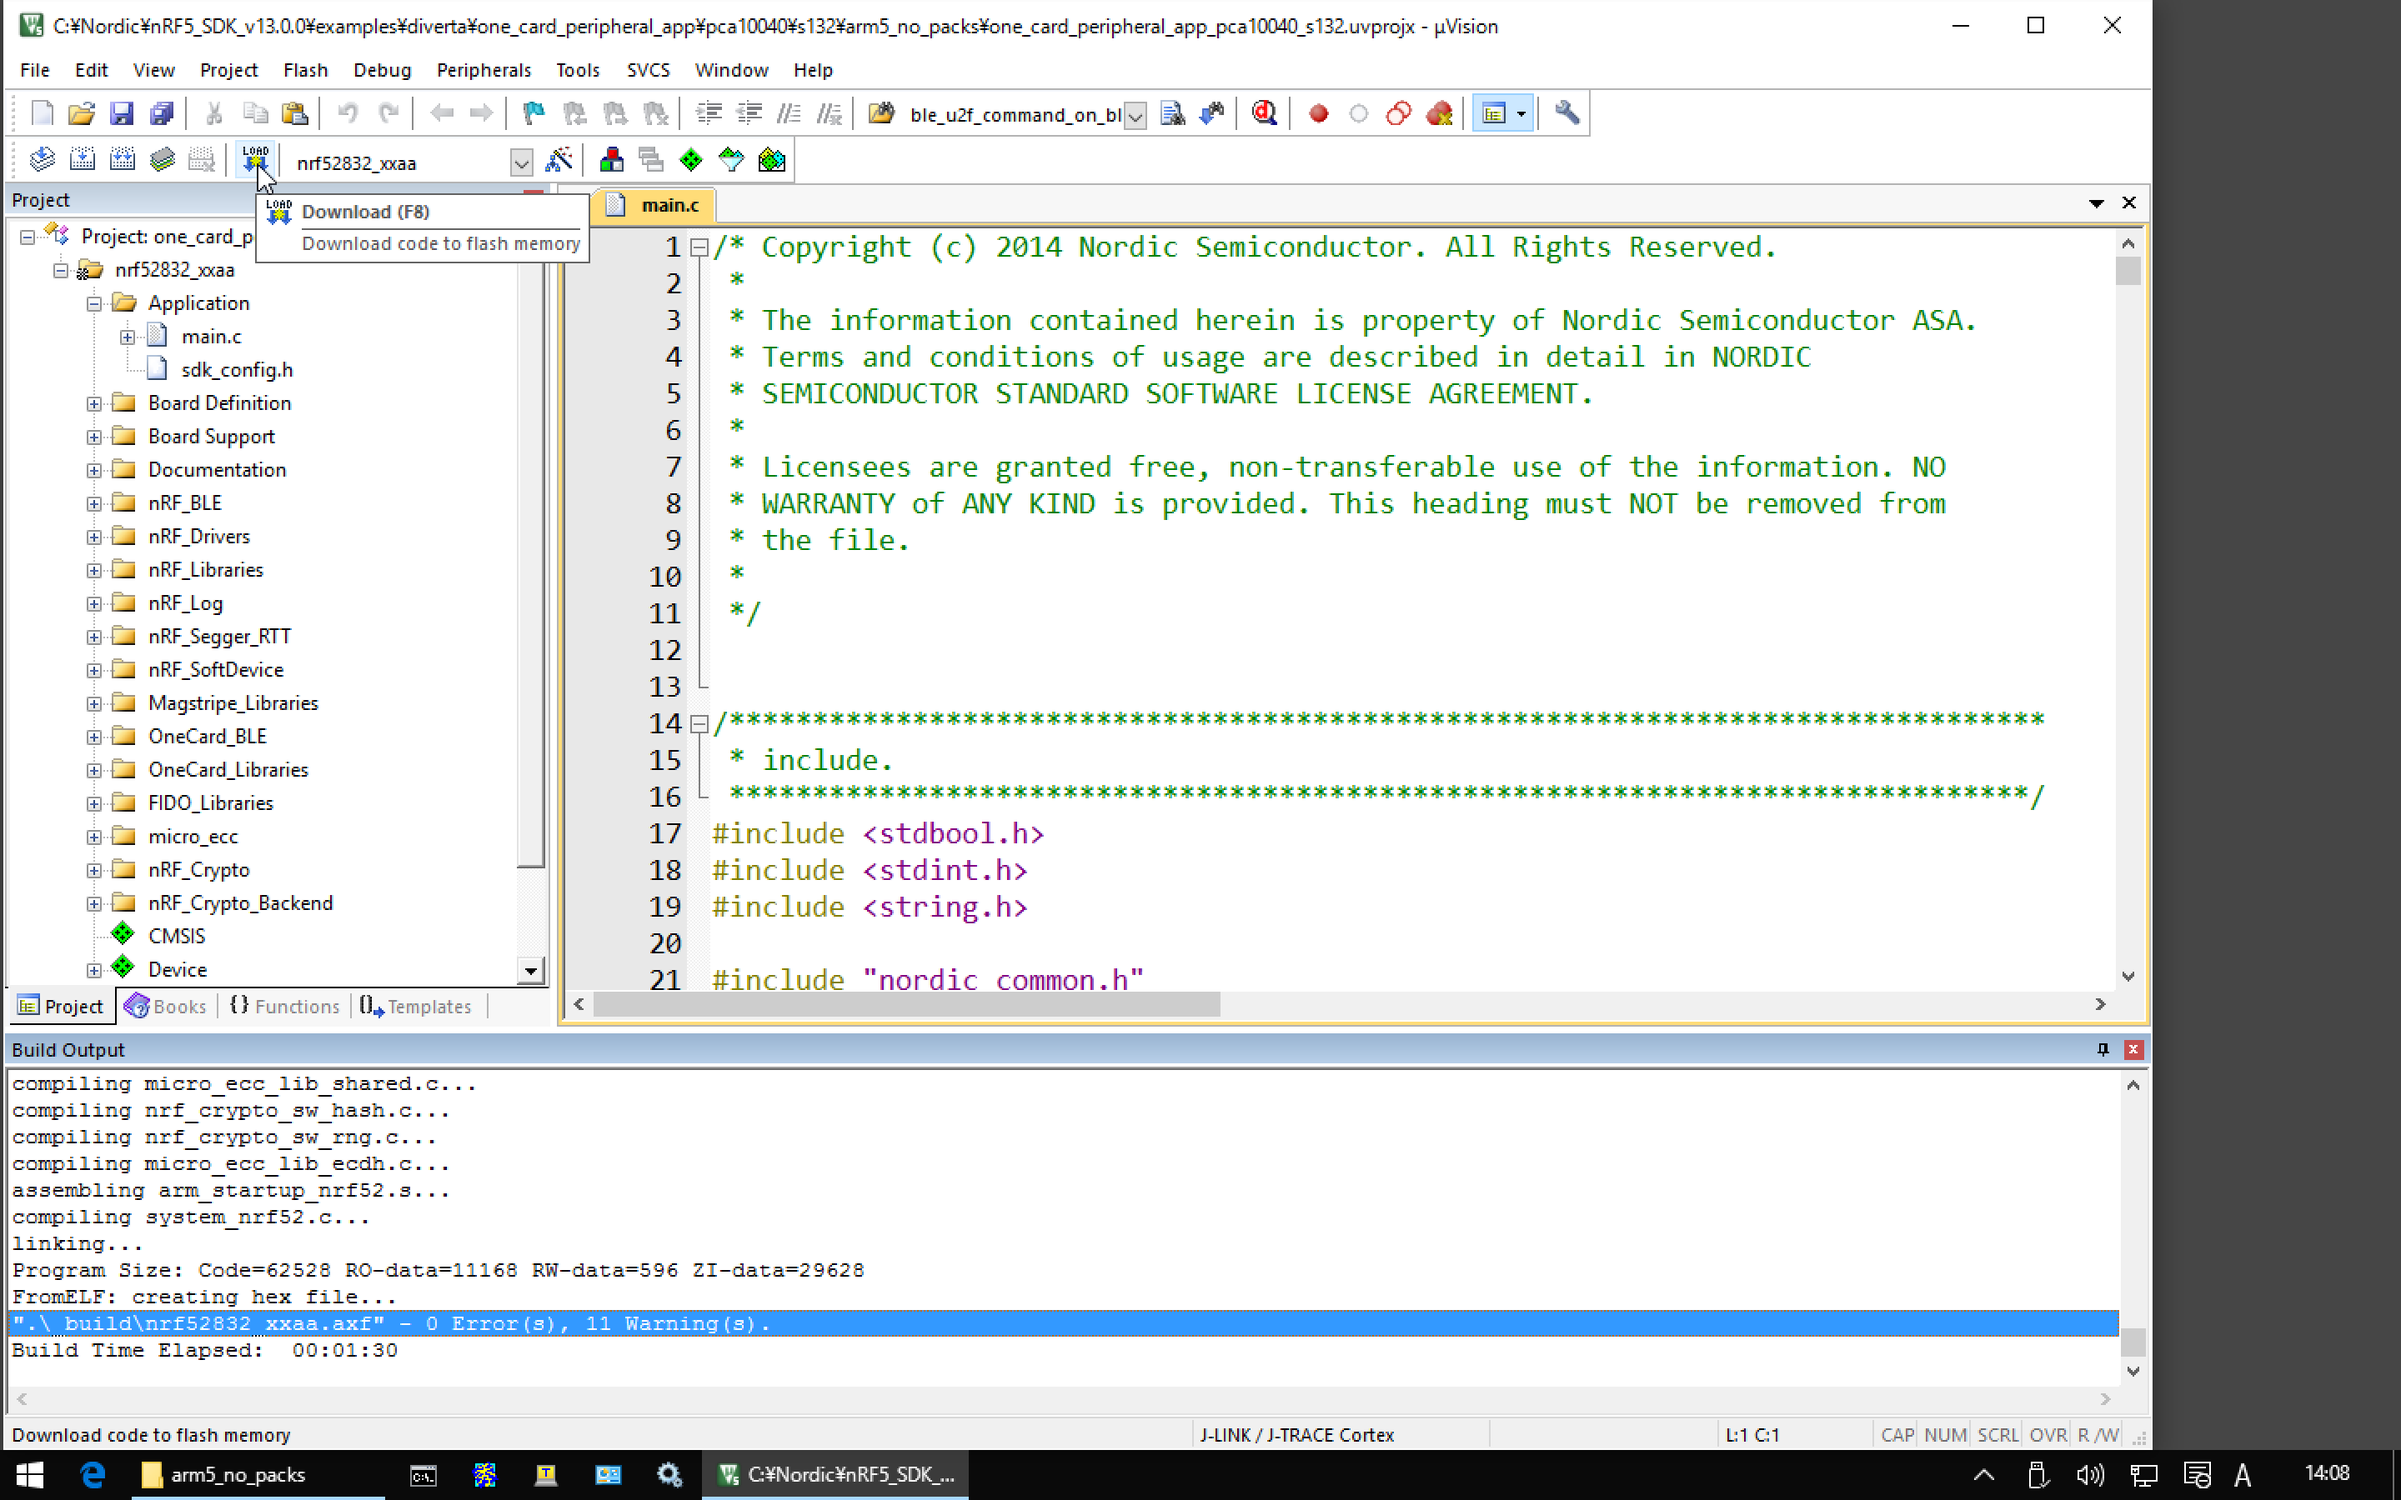
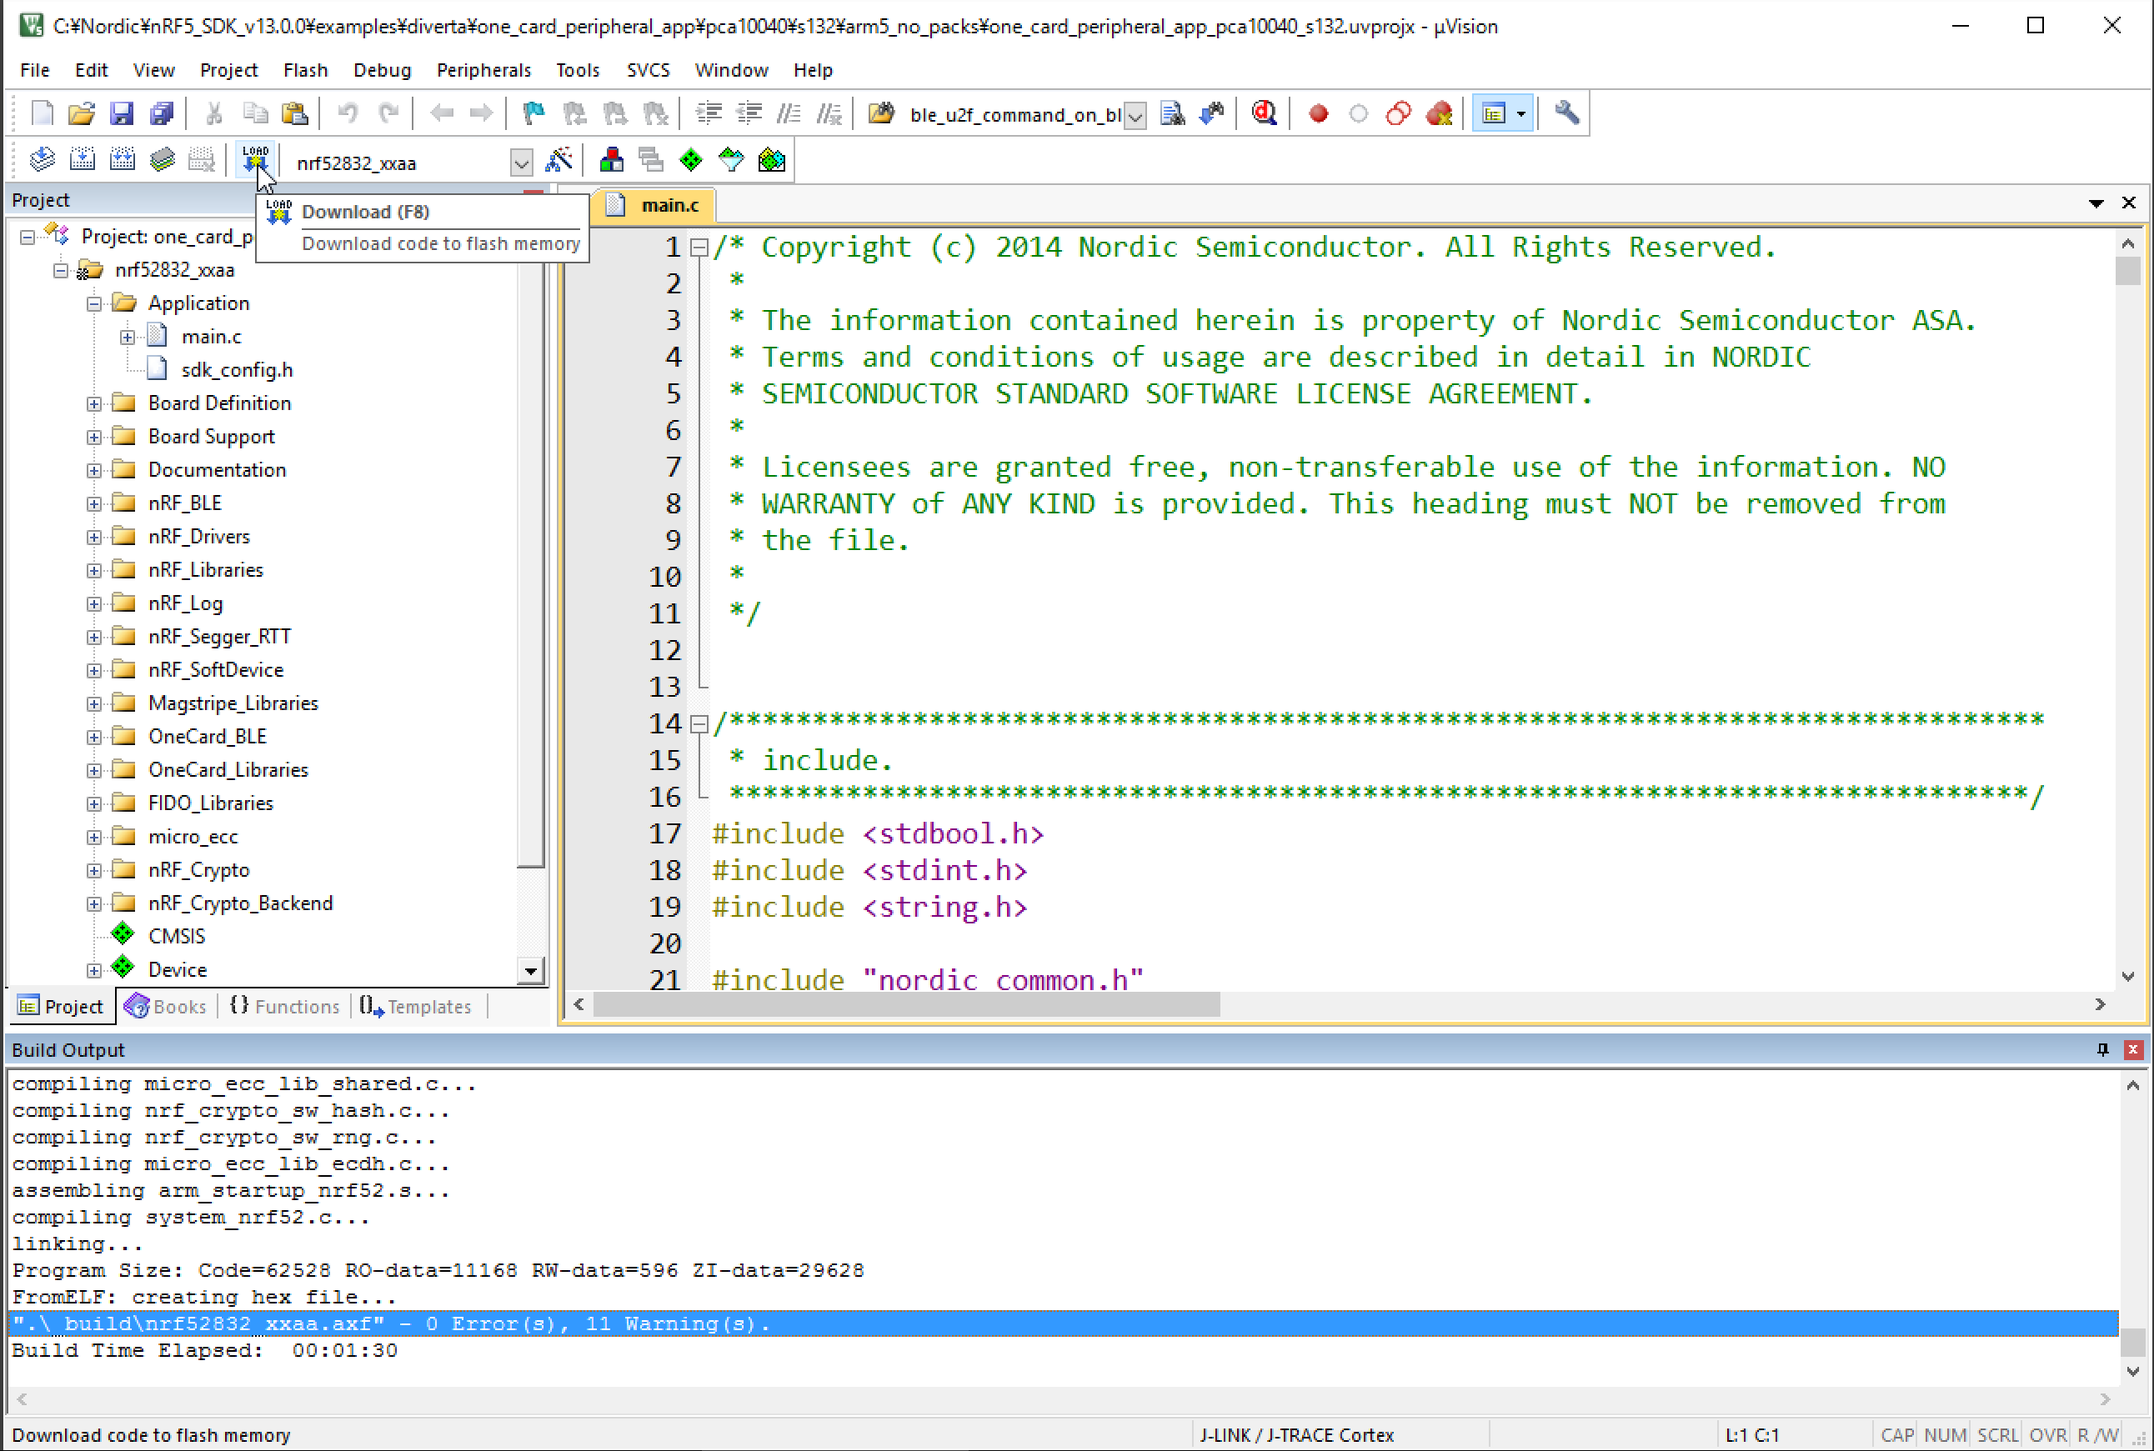
小修正
・画像のサイズを修正
・テキストと画像の間を１行分空ける

diff --git a/nRF5_SDK_v13.0.0/BUILD.md b/nRF5_SDK_v13.0.0/BUILD.md
@@ -28,39 +28,41 @@ nRF52DKを使用しています。
 ### コードのチェックアウト
 
 c:¥nordic（ディレクトリーがない場合は作成）配下に移動し、GitHubからコードをチェックアウトします。<br>
-エクスプローラで見ると、下図のような感じになります。<br>
-<img src="../assets/0004.png" width="500">
+エクスプローラで見ると、下図のような感じになります。
+
+<img src="../assets/0004.png" width="600">
 
 ### プロジェクト設定の確認
 
 nRF52DKとPCを、USBケーブルで接続したのち、one_card_peripheral_app_pca10040_s132.uvprojx というファイルをダブルクリックします。
-<br>
-<img src="../assets/0005.png" width="500">
+
+<img src="../assets/0005.png" width="600">
 
 μVisionが起動したら、プロジェクト設定を確認します。
-<br>
-<img src="../assets/0006.png" width="500">
+
+<img src="../assets/0006.png" width="800">
 
 プロジェクト設定のポップアップを確認します。<br>
 JLINK / J-TRACE Cortexが選択されていることを確認し、Settingsボタンをクリックします。
-<br>
-<img src="../assets/0007.png" width="350">
+
+<img src="../assets/0007.png" width="500">
 
 表示されたポップアップの、SW DeviceにDevice Nameが表示されていることを確認します。
-<br>
-<img src="../assets/0008.png" width="350">
+
+<img src="../assets/0008.png" width="500">
 
 ### ビルドとプログラム書込み(Download)
 
 ビルドを実行します。
-<br>
-<img src="../assets/0009.png" width="500">
+
+<img src="../assets/0009.png" width="800">
 
 ビルドの結果「0 Error(s)」となっていることを確認し、プログラムの書込みを実行します。
-<br>
-<img src="../assets/0010.png" width="500">
 
-エラーが発生しなければ、下図のようになります。<br>
+<img src="../assets/0010.png" width="800">
+
+エラーが発生しなければ、下図のようになります。
+
+<img src="../assets/0011.png" width="800">
+
 これでプログラムの書込みは完了です。
-<br>
-<img src="../assets/0011.png" width="500">
